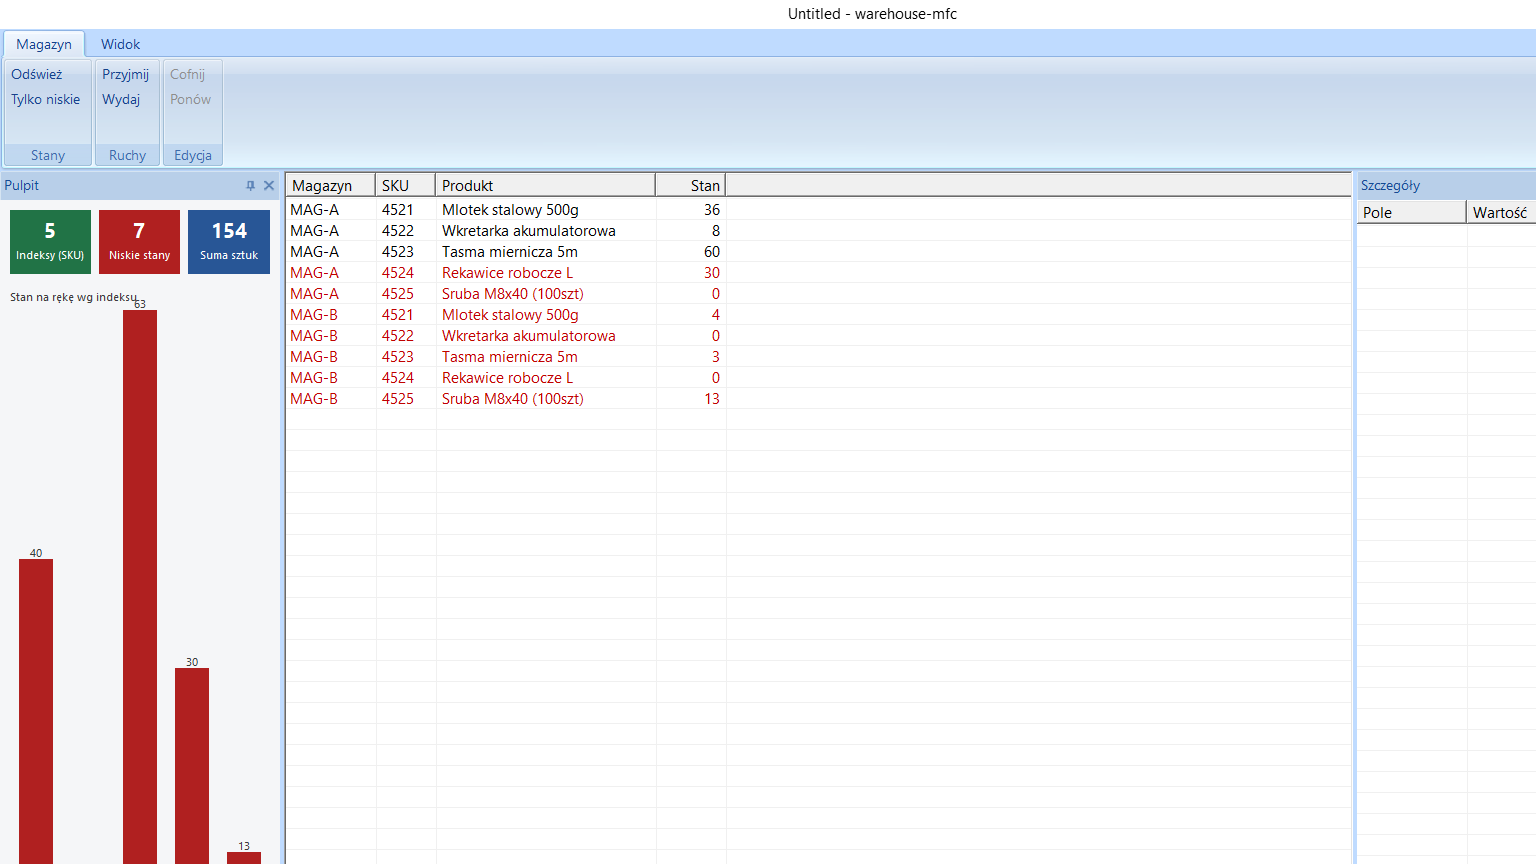
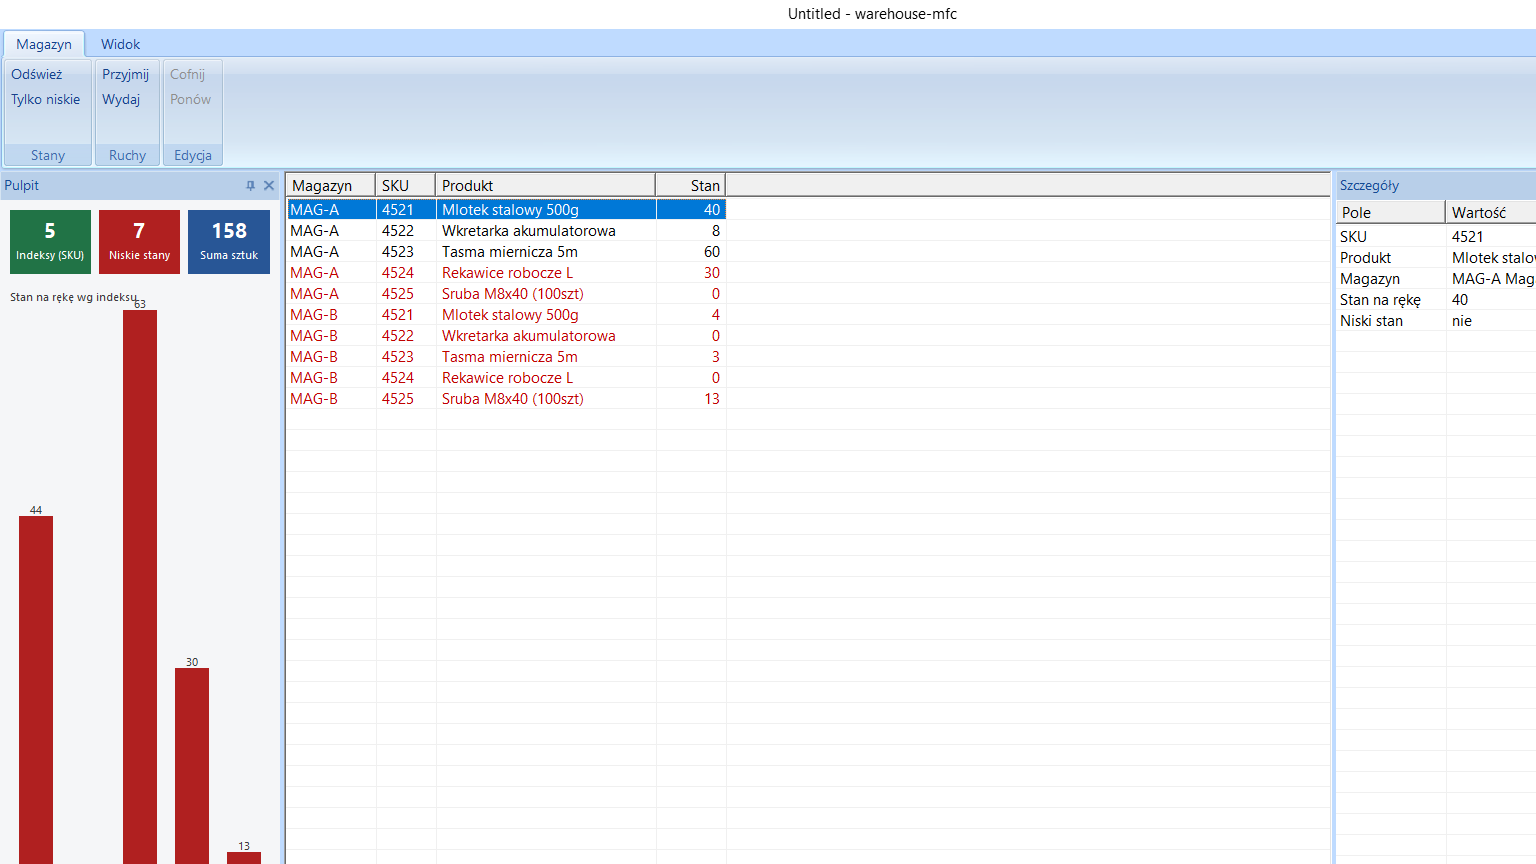
M8 polish: Movement-log pane (recent StockMovements) + data query
data/: StockRepository::loadRecentMovements(limit) + MovementRow struct - TOP(N)
of StockMovements joined to Sku/Code, newest first (CreatedAt as ISO string).
WarehouseDoc loads movements_ alongside stock_ on Refresh; CMainFrame::RefreshPanes
fills the Dziennik ruchow pane (Czas/Ruch/SKU/Ilosc) - verified populated with the
append-only history (IN/OUT, timestamps). Updated hero screenshot.

Note: with both Szczegoly + Dziennik docked right, MFC docking clips the 2nd pane
when the window is narrow/maximized; both show at a wide-enough window. Layout
persists in HKCU\Software\warehouse-mfc.

Changed region(s): [[0.8438, 0.1875, 1.0, 1.0], [0.1875, 0.2188, 0.4688, 0.2812], [0.0, 0.5938, 0.0312, 0.6562]]

diff --git a/data/src/stock_repository.cpp b/data/src/stock_repository.cpp
@@ -142,6 +142,46 @@ std::vector<StockRow> StockRepository::loadCurrentStock() {
     return rows;
 }
 
+std::vector<MovementRow> StockRepository::loadRecentMovements(int limit) {
+    if (limit < 1) limit = 1;
+    if (limit > 1000) limit = 1000;
+
+    SQLHSTMT stmt = SQL_NULL_HSTMT;
+    check(SQLAllocHandle(SQL_HANDLE_STMT, impl_->dbc, &stmt), SQL_HANDLE_DBC, impl_->dbc,
+          "alloc stmt");
+
+    const std::wstring sql =
+        L"SELECT TOP (" + std::to_wstring(limit) +
+        L") CONVERT(NVARCHAR(19), m.CreatedAt, 120), m.MovementType, p.Sku, w.Code, m.Qty "
+        L"FROM StockMovements m "
+        L"JOIN Products p   ON p.ProductId  = m.ProductId "
+        L"JOIN Warehouses w ON w.WarehouseId = m.WarehouseId "
+        L"ORDER BY m.MovementId DESC";
+
+    std::vector<MovementRow> rows;
+    try {
+        check(SQLExecDirectW(stmt, const_cast<SQLWCHAR*>(reinterpret_cast<const SQLWCHAR*>(sql.c_str())),
+                             SQL_NTS),
+              SQL_HANDLE_STMT, stmt, "select recent movements");
+        SQLRETURN rc;
+        while ((rc = SQLFetch(stmt)) != SQL_NO_DATA) {
+            check(rc, SQL_HANDLE_STMT, stmt, "fetch");
+            MovementRow row;
+            row.createdAt = getString(stmt, 1);
+            row.type = getString(stmt, 2);
+            row.sku = getString(stmt, 3);
+            row.warehouseCode = getString(stmt, 4);
+            row.qty = getInt(stmt, 5);
+            rows.push_back(std::move(row));
+        }
+    } catch (...) {
+        SQLFreeHandle(SQL_HANDLE_STMT, stmt);
+        throw;
+    }
+    SQLFreeHandle(SQL_HANDLE_STMT, stmt);
+    return rows;
+}
+
 int StockRepository::recordMovement(const Movement& movement) {
     SQLHSTMT stmt = SQL_NULL_HSTMT;
     check(SQLAllocHandle(SQL_HANDLE_STMT, impl_->dbc, &stmt), SQL_HANDLE_DBC, impl_->dbc,

diff --git a/app/MainFrame.cpp b/app/MainFrame.cpp
@@ -3,6 +3,7 @@
 
 #include "MainFrame.h"
 #include "TextUtil.h"
+#include "WarehouseDoc.h"
 #include "warehouse/stock_repository.hpp"
 
 IMPLEMENT_DYNCREATE(CMainFrame, CFrameWndEx)
@@ -71,13 +72,14 @@ void CMainFrame::CreatePanes() {
     dashboard_.EnableDocking(CBRS_ALIGN_ANY);
     DockPane(&dashboard_);
 
-    movementLog_.Create(_T("Dziennik ruchów"), this, CRect(0, 0, 280, 220), TRUE,
+    movementLog_.Create(_T("Dziennik ruchów"), this, CRect(0, 0, 300, 220), TRUE,
                         IDC_PANE_MOVEMENTS, style | CBRS_RIGHT);
     movementLog_.EnableDocking(CBRS_ALIGN_ANY);
     DockPane(&movementLog_);
-    movementLog_.List().InsertColumn(0, _T("Czas"), LVCFMT_LEFT, 80);
-    movementLog_.List().InsertColumn(1, _T("Ruch"), LVCFMT_LEFT, 60);
-    movementLog_.List().InsertColumn(2, _T("SKU"), LVCFMT_LEFT, 70);
+    movementLog_.List().InsertColumn(0, _T("Czas (UTC)"), LVCFMT_LEFT, 130);
+    movementLog_.List().InsertColumn(1, _T("Ruch"), LVCFMT_LEFT, 44);
+    movementLog_.List().InsertColumn(2, _T("SKU"), LVCFMT_LEFT, 54);
+    movementLog_.List().InsertColumn(3, _T("Ilość"), LVCFMT_RIGHT, 48);
 
     details_.Create(_T("Szczegóły"), this, CRect(0, 0, 280, 160), TRUE, IDC_PANE_DETAILS,
                     style | CBRS_RIGHT);
@@ -90,6 +92,22 @@ void CMainFrame::CreatePanes() {
 void CMainFrame::RefreshPanes() {
     if (dashboard_.GetSafeHwnd() != nullptr) {
         dashboard_.Invalidate();
+    }
+
+    auto* doc = DYNAMIC_DOWNCAST(CWarehouseDoc, GetActiveDocument());
+    CListCtrl& log = movementLog_.List();
+    if (doc != nullptr && log.GetSafeHwnd() != nullptr) {
+        log.DeleteAllItems();
+        int i = 0;
+        for (const warehouse::MovementRow& m : doc->Movements()) {
+            log.InsertItem(i, FromUtf8(m.createdAt));
+            log.SetItemText(i, 1, FromUtf8(m.type));
+            log.SetItemText(i, 2, FromUtf8(m.sku));
+            CString qty;
+            qty.Format(_T("%d"), m.qty < 0 ? -m.qty : m.qty);
+            log.SetItemText(i, 3, qty);
+            ++i;
+        }
     }
 }
 

diff --git a/data/include/warehouse/stock_repository.hpp b/data/include/warehouse/stock_repository.hpp
@@ -24,6 +24,15 @@ struct StockRow {
     bool isLow = false;
 };
 
+// One entry of the append-only StockMovements log (most recent first).
+struct MovementRow {
+    std::string createdAt;      // "YYYY-MM-DD HH:MM:SS" (UTC)
+    std::string type;           // "IN" / "OUT"
+    std::string sku;
+    std::string warehouseCode;
+    int qty = 0;                // signed: + receive / - ship
+};
+
 // ODBC-backed access to the Warehouse database. Implements IMovementRecorder so
 // MovementCommand/CommandStack record through the same path as direct calls.
 // ODBC headers stay hidden behind a pImpl so this header is MFC/Windows-clean.
@@ -36,6 +45,9 @@ public:
     StockRepository& operator=(const StockRepository&) = delete;
 
     std::vector<StockRow> loadCurrentStock();
+
+    // The most recent movements (newest first), joined to sku + warehouse code.
+    std::vector<MovementRow> loadRecentMovements(int limit = 50);
 
     // Calls sp_RecordMovement and returns the new on-hand. Throws std::runtime_error
     // if the proc rejects the movement (insufficient stock -> THROW 50001).

diff --git a/app/WarehouseDoc.h b/app/WarehouseDoc.h
@@ -17,6 +17,7 @@ public:
     CWarehouseDoc();
 
     const std::vector<warehouse::StockRow>& Stock() const { return stock_; }
+    const std::vector<warehouse::MovementRow>& Movements() const { return movements_; }
 
     // Reload vCurrentStock from the database and refresh the views.
     void Refresh();
@@ -37,5 +38,6 @@ private:
 
     std::unique_ptr<warehouse::StockRepository> repo_;
     std::vector<warehouse::StockRow> stock_;
+    std::vector<warehouse::MovementRow> movements_;
     warehouse::CommandStack commands_;
 };

diff --git a/app/WarehouseDoc.cpp b/app/WarehouseDoc.cpp
@@ -34,6 +34,7 @@ BOOL CWarehouseDoc::OnNewDocument() {
 void CWarehouseDoc::Refresh() {
     try {
         stock_ = repository().loadCurrentStock();
+        movements_ = repository().loadRecentMovements();
         UpdateAllViews(nullptr);
     } catch (const std::exception& error) {
         AfxMessageBox(FromUtf8(error.what()), MB_ICONERROR);